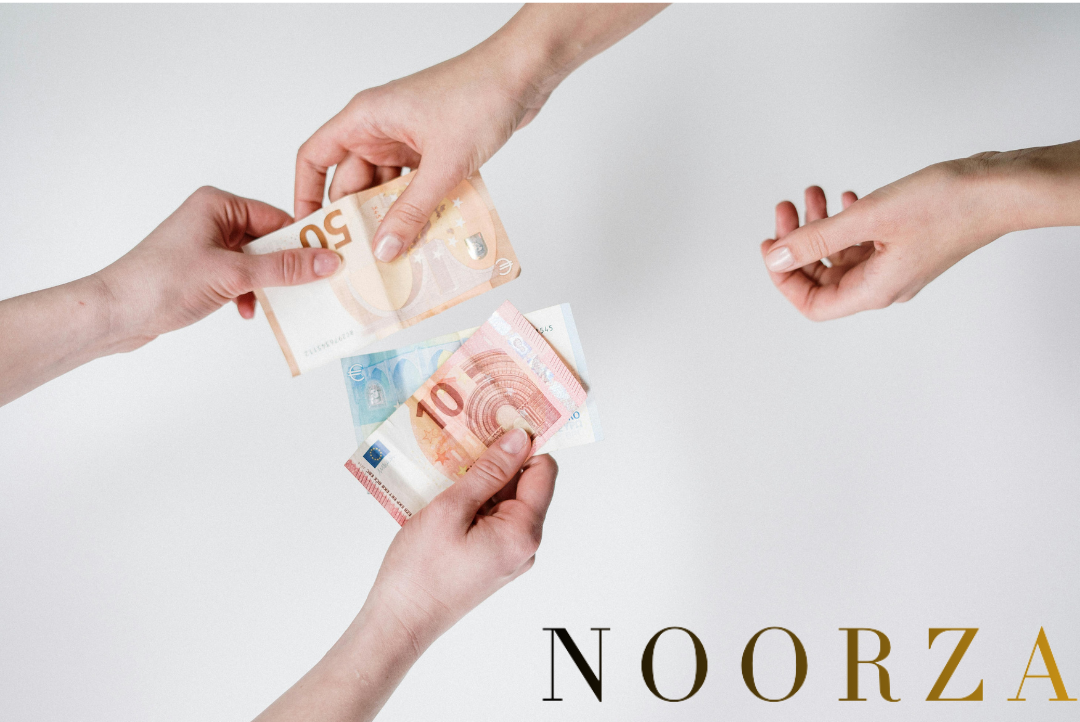
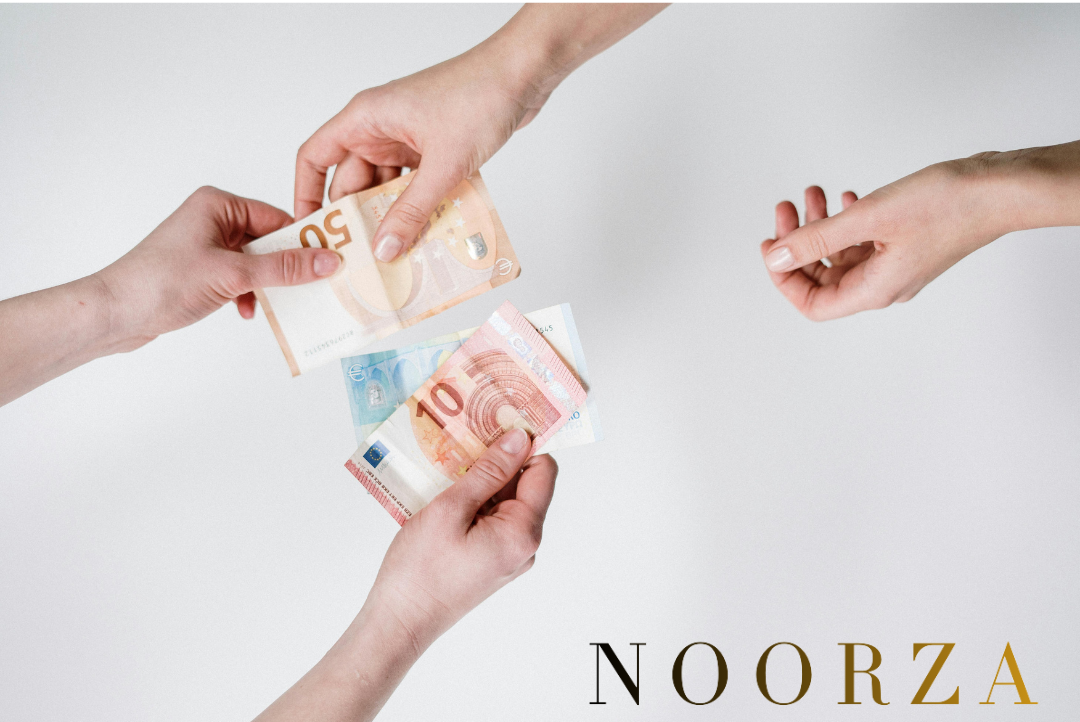
Done

Changed region(s): [[0.4889, 0.8532, 1.0, 0.9751], [0.4889, 0.9446, 0.5194, 0.9751]]

diff --git a/FrontEnd/src/assets/assets.js b/FrontEnd/src/assets/assets.js
@@ -24,8 +24,8 @@ import Product_20 from './Product_20.png'
 
 import Noorza from "./Noorza.png"
 import Delivery from './Delivery.png'
-import Privacy from './Privacy.png'
-import RefundP from './RefundP.png'
+import PrivacyP from './PrivacyP.png'
+import Refund from './Refund.png'
 import hero_img from './hero_img.png'
 import cart_icon from './cart_icon.png'
 import bin_icon from './bin_icon.png'
@@ -67,8 +67,8 @@ export const assets = {
   Product_20,
   Noorza,
   Delivery,
-  Privacy,
-  RefundP,
+  PrivacyP,
+  Refund,
   hero_img,
   cart_icon,
   dropdown_icon,

diff --git a/FrontEnd/src/Pages/PrivacyPolicy.jsx b/FrontEnd/src/Pages/PrivacyPolicy.jsx
@@ -13,7 +13,7 @@ const PrivacyPolicy = () => {
     
       <div className="flex flex-col sm:flex-row items-center gap-10">
         <div className="w-full sm:w-1/2">
-          <img src={assets.Privacy}alt="Privacy Policy"className="w-full h-[26rem] sm:h-[32rem] object-cover rounded-lg shadow-md"/>
+          <img src={assets.PrivacyP}alt="Privacy Policy"className="w-full h-[26rem] sm:h-[32rem] object-cover rounded-lg shadow-md"/>
         </div>
 
 

diff --git a/FrontEnd/src/Pages/RefundPolicy.jsx b/FrontEnd/src/Pages/RefundPolicy.jsx
@@ -13,7 +13,7 @@ const RefundPolicy = () => {
    
       <div className="flex flex-col sm:flex-row items-center gap-10">
         <div className="w-full sm:w-1/2">
-          <img src={assets.RefundP}alt="Refund Policy"className="w-full h-[20rem] sm:h-[24rem] object-cover rounded-lg shadow-md"/>
+          <img src={assets.Refund}alt="Refund Policy"className="w-full h-[20rem] sm:h-[24rem] object-cover rounded-lg shadow-md"/>
         </div>
 
       